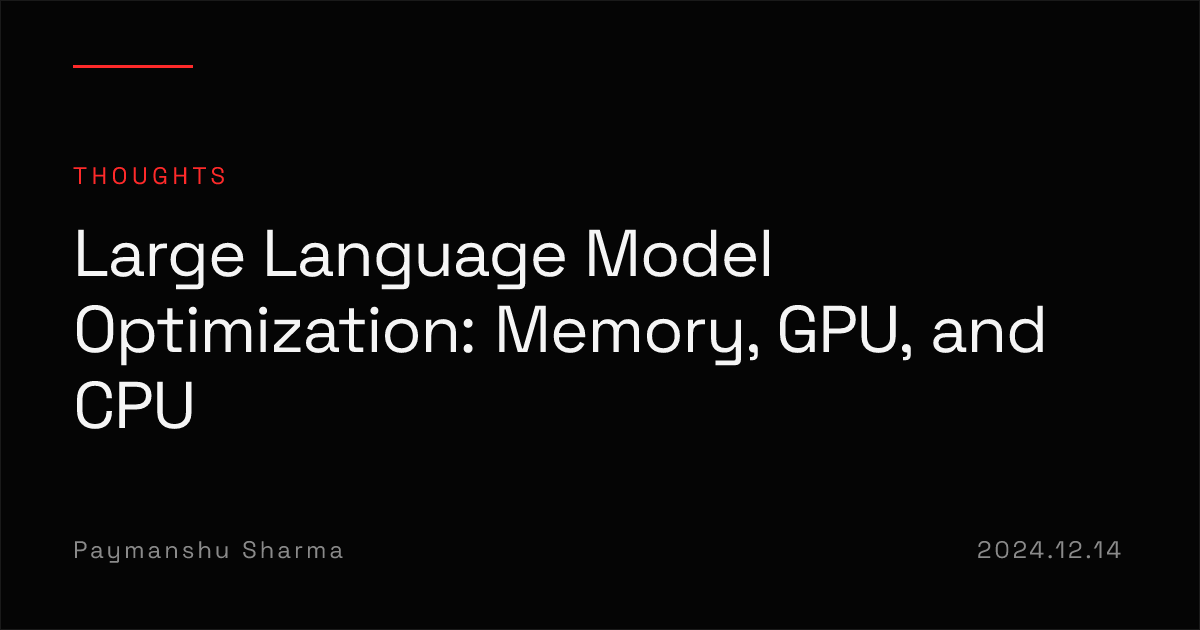
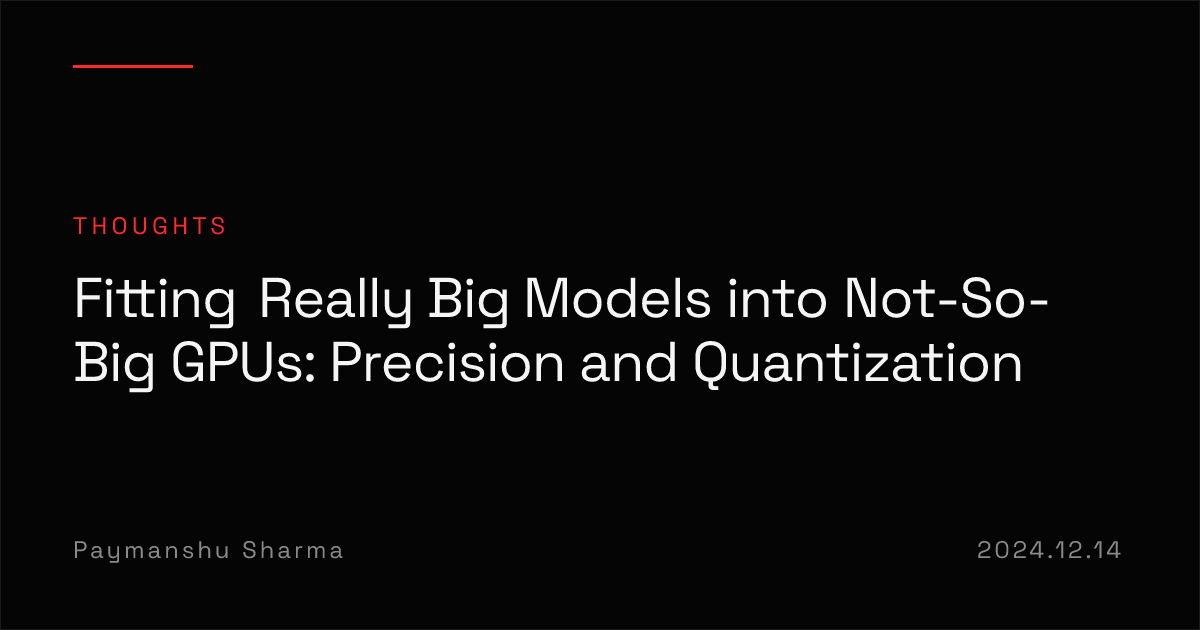
Cut the LLM post to my own sections; add references to both posts (#4)
* Cut the LLM post down to my own sections and credit Microsoft in the Android post.

The LLM optimization post grew out of a team write-up. Only the precision,
quantization and VRAM parts (and the figures) are mine, so the GPU serving and
CPU sections go, along with the generic intro and strategy overview. The
KV-cache sizing math and chart move into a closing section, with the sentences
that followed NVIDIA's inference post rewritten. New title, excerpt, tags and
references to match; the slug stays so existing links keep working.

The Android post now credits Microsoft for the Phi-3 quantization and Galaxy
S21 benchmark results, and fixes the Gemma model size (2B).

The dated-note test now accepts "Researched in 2024" as well as "Written in".

* Add a references list to the Android post and fill gaps in the LLM post's.

---------

Changed region(s): [[0.0617, 0.3317, 0.8942, 0.6937], [0.0617, 0.2714, 0.185, 0.3016]]

diff --git a/content/blog/llm-optimization-memory-gpu-cpu.md b/content/blog/llm-optimization-memory-gpu-cpu.md
@@ -1,51 +1,25 @@
 ---
-title: "Large Language Model Optimization: Memory, GPU, and CPU"
-excerpt: "A practical tour of LLM deployment optimization across three dimensions — precision formats and quantization for memory, batching and KV caching for GPU, and IPEX and llama.cpp for CPU."
+title: "Fitting Really Big Models into Not-So-Big GPUs: Precision and Quantization"
+excerpt: "How much GPU memory a model actually needs and how to cut it down — fp32, fp16 and bf16, what quantization trades away, LLM.int8() and bitsandbytes in practice, and the KV cache that grows on top of the weights."
 date: "2024-12-14"
 tags:
   - llm optimization
   - quantization
   - precision
   - kv cache
+  - vram
   - inference
-  - gpu
 ---
 
-_Written in 2024, and it shows. This predates the now-standard tooling and formats — vLLM's PagedAttention, FP8 and FP4 hardware support, GGUF's takeover from GGML, and the current generation of quantization methods (AWQ, GPTQ variants, MXFP4). The fundamentals below — why precision matters, how quantization trades accuracy for memory, where the KV cache bottleneck comes from — still hold. The specific library recommendations and benchmark numbers do not. Read it as a snapshot._
+_Researched in 2024, and it shows. It predates FP8 and FP4 hardware support and the current generation of quantization methods (AWQ, GPTQ variants, MXFP4). The fundamentals below — why precision matters, how quantization trades accuracy for memory, where the KV cache's memory comes from — still hold. The specific library recommendations and benchmark numbers do not. Read it as a snapshot._
 
 ## Introduction
 
-In today's rapidly evolving digital landscape, natural language processing (NLP) has emerged as a transformative technology, revolutionizing how machines understand and interpret human language. Foundation models serve as the backbone enabling many cutting-edge AI systems to understand and generate human language, which have become indispensable in powering a wide array of applications — from chatbots and sentiment analysis to machine translation and content generation. LLMs are instrumental in enhancing customer engagement, streamlining operations, and fostering innovation across various sectors such as healthcare, finance, insurance, and more.
-
-However, the increasing demand for sophisticated, context-aware language understanding shows the complexities and challenges associated with training and deploying these models. The significant computational resources and the necessity for efficient optimization algorithms underscore the unique challenges organizations face. As LLMs grow in complexity, incorporating multiple layers and components like transformers and attention mechanisms, the task of managing computational costs, resource limitations, potential biases, and energy consumption becomes paramount. Such ever growing complexities spurred a pressing need for optimization strategies that not only improve model accuracy and effectiveness but also ensure scalability, efficiency, and responsible AI development.
-
-This piece explores the multifaceted domain of LLM optimization, presenting state-of-the-art techniques, emerging trends, and best practices to enhance the performance and utility of these models by delving into aspects such as data preprocessing, model architecture choices, transfer learning, and fine-tuning, alongside strategies for model compression and reducing energy consumption.
-
-## Why the Need for LLM Optimization?
-
-The five priority painful challenges in deploying LLMs are:
-
-- **Memory (RAM) Constraints:** LLMs require a substantial amount of RAM to load the model into memory. For deployment on servers or edge devices, ensuring that there is enough RAM to accommodate the model can be a challenge.
-- **Resource (GPU and CPU) utilization:** Large language models require a lot of computation for training and inference. Optimized processing is essential to make the best use of resources, especially when the model must deal with multiple requests at the same time.
-- **Latency and Throughput:** Real-time applications require high performance and low delay. Designing the deployment architecture to cope with many simultaneous requests effectively can be increasingly onerous.
-- **Parameter Redundancy:** Redundant parameters present in pre-trained language models pose challenges for specific deployment scenarios. Fine-tuning or compressing the model to reduce its size without significantly sacrificing performance can be a complex task.
-- **Energy Efficiency:** Deploying large language models on edge devices, where power constraints are prevalent, requires consideration of energy efficiency. Optimizing the model architecture and inference process for low power consumption is important for superlative performance.
-
-## Optimization Strategies
-
-The optimization of LLM deployment encompasses three primary dimensions: memory utilization, CPU efficiency, and GPU acceleration. These dimensions represent critical facets in the efficient deployment of Large Language Models, each demanding meticulous attention to achieve optimal performance and scalability. This section delineates some strategies tailored to optimize LLM deployment across these three dimensions, elucidating nuanced approaches to memory management, CPU utilization, and GPU acceleration.
-
-Optimizing memory usage is a critical aspect of deploying LLMs effectively. State-of-the-art models, which are prominent in natural language understanding and generation, often come with substantial memory requirements which can pose challenges in deployment scenarios. However, with strategic memory optimization techniques, the efficiency and scalability of LLM deployment can be improved.
-
-Optimizing CPU usage is paramount when deploying LLMs to ensure efficient performance and scalability. While LLMs excel in processing vast amounts of textual data, their computational demands can strain CPUs, leading to potential bottlenecks and reduced efficiency. However, with strategic CPU optimization techniques, organizations can unlock the full potential of LLM deployment without overwhelming the hardware infrastructure.
-
-Optimizing GPU utilization is another crucial step to consider when deploying LLMs. They often rely on parallel processing to handle the massive computational demands of natural language processing tasks. GPUs, because of parallel architecture and high processing power, are well-suited for accelerating LLM inference and training. However, to fully leverage the capabilities of GPUs and ensure efficient deployment of LLMs, it's essential to employ optimization techniques tailored to GPU architectures.
-
-The sections below deep dive into key strategies, ranging from parameter quantization to model pruning for memory, and batch processing, mixed-precision computing, and model parallelism for GPU.
-
-## Memory
-
 With bigger, state of the art achieving models being put out at an ever increasingly rapid pace nowadays, it is getting harder for practitioners to work on the cutting edge and spend hands-on time. Besides CPU processing being a bottleneck, and massive GPU access costs, another obstacle that comes in the way of experimenting with larger models is being able to store these models in the available memory at all. Traditionally, model weights have been stored as floats in the 32-bit format, also referred to as single precision. This format is known to be able to learn and manage the most amount of information possible. But despite the format's competence at storing significant amounts of information, the very same advantage presents a challenge as well. Massive information storage is a computational issue and makes it difficult to work with in machines which cannot store such blocks of information at a time.
+
+This piece walks through what that storage actually costs, what lower-precision formats and quantization buy back, what they cost in quality and speed, and the second memory bill — the KV cache — that arrives once the model is serving requests.
+
+## Precision Formats
 
 Just to demonstrate the sizes that are being dealt with here, model size in bytes can be calculated as the number of parameters, multiplied by the precision size of choice in bytes:
 
@@ -114,9 +88,9 @@ These 2 phenomena lead to significant instability in the training process. Rathe
 
 Other examples include Nvidia's TensorFloat 19-bit representation, AMD's fp24, and Pixar's PXR24 formats.
 
-### Understanding Quantization
+## Understanding Quantization
 
-_The treatment of zero-point quantization and LLM.int8() in this section and the next draws heavily on Hugging Face's "A Gentle Introduction to 8-bit Matrix Multiplication" by Younes Belkada and Tim Dettmers [5], which remains the clearest explanation of the mixed-precision decomposition scheme. The framing of the scaling example below follows theirs._
+_The treatment of zero-point quantization and LLM.int8() in this section and the next draws heavily on Hugging Face's "A Gentle Introduction to 8-bit Matrix Multiplication" by Younes Belkada and Tim Dettmers [2], which remains the clearest explanation of the mixed-precision decomposition scheme. The framing of the scaling example below follows theirs._
 
 For going even further with potential memory saving, lower-bit representations than 16-bit cannot be used directly, as these would not be able to store the required amount of information needed to achieve sufficient performance. **Quantization** is one such technique proposed to deal with this roadblock. Rather than dropping more bits, this method relies on rounding digits from float to int representations, paired with some strategy to manage precision loss.
 
@@ -136,7 +110,7 @@ Quantization can be broadly categorized into two primary types based on the stag
 1. **Quantization-Aware Training (QAT)** incorporates weight quantization at training time itself. This leads to improved model performance, but at the same time can be more computationally demanding. Methods like QLoRA work in this manner, accommodating the nuances of quantization.
 2. **Post-Training Quantization (PTQ)** on the other hand performs the quantization on the weights of a model which has already been trained. This is an easier to implement solution which gives us some more flexibility to work with models that we might not have the compute to otherwise support with QAT methods, while allowing for additional memory requirement reductions. (This piece primarily covers PTQ methods.)
 
-### Improved Quantization Techniques
+## Improved Quantization Techniques
 
 A few further improvements have been proposed and put into practice, which are more common methods of carrying out the same concept of quantization but in more efficient ways which aid in preventing excessive performance degradation.
 
@@ -146,7 +120,7 @@ This is also made use of in the **LLM.int8()** method for performing int8 quanti
 
 LLM.int8() promises zero degradation in performance by tackling the effect of outlier features via mixed precision computation. Put simply, this means identifying values which would gain advantage from being continued to be computed at a higher precision, while the remaining significant majority is multiplied in a lower 8-bit precision. The quantized portion can later be dequantized and added to the outliers which have been computed in their original 32/16-bit float values. This also has the additional advantage of only minimal slowdowns compared to complete float16 precision inference mode.
 
-### Implementing Quantization
+## Implementing Quantization
 
 Models downloaded from the HuggingFace Hub are widely used for the convenience due to model usage and pipeline uniformity, along with the several other features for model sharing, downloading, uploading, etc., which the Hub makes available in an open-source fashion. Another significant advantage of this now is the ease of setting up quantization quickly while fine-tuning or for inference. HuggingFace has been powered by their link-up with the bitsandbytes library, along with the availability of several useful features from Accelerate, Optimum, and other similar services from HuggingFace themselves.
 
@@ -154,7 +128,7 @@ bitsandbytes provides a wide array of features allowing for incorporating state 
 
 Accelerate also has another important feature which splits up any given model weights between the CPU and GPU memory, in case the GPU by default is not able to hold the entire model. Setting the `device_map` parameter to `'auto'` while loading any model from pretrained is all it takes to enable Accelerate to look out for cases where this sort of splitting needs to kick in.
 
-### Results and Inferences
+## Results and Inferences
 
 The objective here was to compare models before and after different types of quantization methods had been applied to them, and how this impacts pertinent performance-related factors — primarily, the output performance quality (based on some chosen metric), the size of the model we are actually able to load in and use, any drops or differences in speed observed at inference time, and any other factors that arise during testing.
 
@@ -172,25 +146,17 @@ There do exist measures which can be taken to curb this slowdown, for example, w
 
 **Model Compatibility:** In some cases, it helps to note model-specific recommendations which have been provided keeping in mind the original state of training for a particular model, and how it can be best utilized at a fine-tuning or inference stage with the correct specifications/settings. The Llama2 models, for instance, were originally trained using the bfloat16 precision, as specified by Meta. For inference, float16 is picked. However, training the model in float16 is not a recommended practice and is known to produce NaN values which will be an obstacle to successful training. This specification can be made at load time itself with HuggingFace, with the model weights being cast to the required dtype on load.
 
-## GPU Optimization
+## Beyond the Weights: The KV Cache
 
-In comparison to CPUs, GPUs consist of a large number of weak cores. They are a specialized set of hardware that performs one task extremely well. While CPUs are more generalized towards running other processes on the system, they are more focused towards improving the latency of a task. GPUs, however, focus on increasing the system's throughput.
+Everything above is about the weights. Serving adds a second memory cost on top of them — the key-value (KV) cache.
 
-With the widespread incorporation of LLMs in many tasks, the demand for specialized hardware to host and run them is at an all-time high. Acquiring GPUs for running complex machine learning and deep learning algorithms has been done by large organizations for quite some time now. However, the compute power from GPUs required to run LLM inferencing is a completely different ball game. So how do we address this issue? While GPU manufacturing companies are constantly increasing the compute power and the number of floating-point operations per second, they are also extremely expensive. Constantly upgrading the hardware to keep in line with the compute power required by new algorithms might not always be the best solution as the costs also increase exponentially. This is where the challenge of GPU optimization comes in.
+Decoding is autoregressive: one token per step, and every step attends over all the tokens before it. Without a cache, generating the *n*-th token means recomputing key and value projections for all *n-1* prior tokens — work that was already done at the previous step and whose result has not changed. Caching those projections in GPU memory turns that repeated quadratic work into an append: each step computes K and V for exactly one new token and concatenates them onto what is already stored. The cache is typically maintained per layer, since each layer attends over its own representations.
 
-_The batching and KV-cache material below follows the ground covered in NVIDIA's "Mastering LLM Techniques: Inference Optimization" [10], which is the best single reference on serving-side GPU optimization from this period._
+The trade is memory for compute, and it is worth being precise about how much memory, because this is where the ceiling on how many requests fit on one card comes from.
 
-**1. Batching.** One effective method to enhance GPU utilization and consequently increase throughput is by employing batching. This approach allows multiple requests to utilize the same model, thereby distributing the memory cost of the weights across all of them. By transferring larger batches to the GPU for simultaneous processing, the available computing power can be better harnessed. However, there is a limitation to the extent to which batch sizes can be increased, as it may result in memory overflow.
+GPU memory during inference goes to two places: the weights, which are fixed, and the KV cache, which is not.
 
-The naive implementation — hold a batch, run it, return it, take the next — wastes a great deal of the throughput it was meant to buy. The reason is that generation lengths are not known in advance and are not uniform. A batch finishes when its slowest member finishes, so a batch containing one long generation and seven short ones occupies the GPU for the duration of the long one while seven slots sit idle producing padding. The wider the spread of output lengths, the worse the waste, and for a general-purpose serving endpoint that spread is wide by definition. In-flight batching addresses this by evicting completed sequences and admitting queued ones mid-batch, so that finished slots are refilled rather than idled.
-
-**2. Key-value caching.** A prevalent technique for enhancing the decode phase of an LLM is Key-Value (KV) caching. Decoding is autoregressive: one token per step, and every step attends over all the tokens before it. Without a cache, generating the *n*-th token means recomputing key and value projections for all *n-1* prior tokens — work that was already done at the previous step and whose result has not changed. Caching those projections in GPU memory turns that repeated quadratic work into an append: each step computes K and V for exactly one new token and concatenates them onto what is already stored. The cache is typically maintained per layer, since each layer attends over its own representations.
-
-The trade is memory for compute, and it is worth being precise about how much memory, because this is where the ceiling on batch size actually comes from.
-
-**3. LLM memory requirement.** GPU memory during inference goes to two places: the weights, which are fixed, and the KV cache, which is not.
-
-*Model weights* are the easy half — the calculation from the Memory section applies directly. Llama 2 7B at 16-bit precision is roughly 14 GB, and that figure does not move regardless of how many requests are in flight.
+*Model weights* are the easy half — the calculation from earlier applies directly. Llama 2 7B at 16-bit precision is roughly 14 GB, and that figure does not move regardless of how many requests are in flight.
 
 *The KV cache* is the half that scales, and it scales with traffic. Every token of every sequence in the batch needs its own K and V entries at every layer, so the cost per token is:
 
@@ -239,45 +205,21 @@ Put Llama 2 7B's configuration through this — 32 layers, `d_model` of 4096, fp
   </g>
 </svg>
 <figcaption>At batch 8 the cache alone (16 GB) exceeds the weights (14 GB), and the total overruns a 24 GB card.</figcaption>
-</figure> Efficiently managing the KV cache is a complex task, and because the requirement grows linearly in both batch size and sequence length, it can quickly become unmanageable. This is the real limit on achievable throughput, and it is why long-context inputs are disproportionately expensive to serve.
+</figure>
 
-**4. Scaling up LLMs with model parallelization.** A method for decreasing the memory usage of model weights on individual devices is to distribute the model across multiple GPUs. By dispersing the memory and computational demands, it becomes possible to work with larger models or process greater batches of input data. Model parallelism is essential for training or conducting inference on models that demand more memory than a single device can provide, as well as for ensuring that training durations and inference metrics (such as latency or throughput) are appropriate for specific use cases. There are various approaches to model parallelization, depending on how the model weights are divided.
+`batch_size` and `seq_len` are set by the workload rather than the model: longer contexts and more concurrent requests each grow the cache linearly. Once the weights fit, the cache sets the ceiling on concurrency, and it is why long contexts are expensive to serve. The `bytes_per_element` term is the same lever as before — a cache stored at lower precision shrinks in proportion, just as the weights do.
 
-Data parallelism is worth distinguishing here, because it comes up in the same conversations and solves a different problem. It replicates the whole model on each device and splits the incoming batch between them. That helps when the bottleneck is how much data you can push through, but it does nothing for the case that actually blocks inference — a model too large for one device. Since every replica still needs the full weights, data parallelism is largely a training-time concern and rarely the answer at serving time.
-
-## CPU Optimization
-
-One of the fundamental components influencing the efficacy of LLM inference is the optimization of CPU compute. The efficient utilization of CPU resources plays a pivotal role in accelerating inference tasks, minimizing latency, and enhancing overall system performance. Through careful optimization techniques, it is feasible to perform fast inference of large deep learning models directly on a CPU. These optimization methods allow large neural network architectures to make predictions on a central processing unit in a computationally efficient manner without requiring a dedicated GPU.
-
-**1. IPEX graph optimization.** The Intel® Extension for PyTorch (IPEX) library offers performance optimizations for PyTorch models running on Intel CPUs, especially when using JIT compilation via TorchScript. The mechanism is operator fusion: where the eager-mode graph would launch several small kernels in sequence, IPEX recognises the pattern and emits one. Each launch avoided is one less round-trip through memory for an intermediate tensor, and on CPU — where there is no thousand-way parallelism to hide that latency behind — the saving is proportionally larger than the same fusion would buy on GPU.
-
-Per Intel's documentation [3], the fused patterns include:
-
-> Multi-head-attention fusion, concat Linear, Linear+Add, Linear+Gelu, Add+LayerNorm fusion and etc.
-
-The combination of TorchScript for eager-to-graph compilation and IPEX for CPU-specific graph optimizations allows PyTorch models to achieve significant speedups on Intel hardware.
-
-**2. Indirect Access KV Cache.** The decoder layer in sequence-to-sequence models like neural machine translation uses an attention mechanism to decide which parts of the input sequence are most relevant when generating each output token. Specifically, it computes a scaled dot product between the input tokens' hidden states (the "keys") and the output tokens' hidden states (the "values") to determine the attention weights. To improve computational efficiency, the decoder layer can utilize a key-value cache to store previously computed keys and values for reuse in later decoding steps. However, caching all previous keys and values requires substantial memory, especially when beam search is used to generate multiple candidate output sequences in parallel. Therefore, techniques like truncated key-value caching only store keys and values for the most recent inputs to constrain memory usage. Though truncation discards potentially useful context, it allows faster decoding over long sequences by reducing redundant key-value recalculations.
-
-Memory is a bottleneck in efficient decoding with KV caches, and beam search makes it worse: the storage grows with the number of hypotheses kept alive. The naive implementation compounds the problem. Beams are pruned and re-ranked at every step, so a cache laid out per-beam has to be physically shuffled each time the ranking changes — copying tensors around to keep each beam's history contiguous. That reordering cost is pure overhead, and it recurs at every decoding step.
-
-Intel's Indirect Access KV Cache (IAKV) [3] removes it by decoupling storage from ordering. The cache is allocated once, up front, at a fixed size, and never moves. What changes instead is a small side table recording which slot each beam occupied at each step. Reading a beam's history means walking that table to collect the right slots, rather than maintaining a contiguous copy — an indirection, hence the name. Re-ranking becomes a cheap update to the index; the tensors themselves stay put. The pre-allocation is a secondary benefit, since it removes per-step allocator traffic as well.
-
-**3. C++ compiling.** PyTorch, the popular deep learning framework, now offers a powerful solution for deploying models beyond the confines of Python. Through TorchScript, developers can seamlessly compile their models into an optimized intermediate format, unlocking significant advantages for production environments. The key advantages are platform independence — compiled models shed the Python dependency, enabling deployment across diverse platforms and expanding operational reach — and a performance boost, where C++'s inherent speed translates directly to compiled models, resulting in faster inference and streamlined deployment.
-
-llama.cpp and whisper.cpp stand as tangible examples of this technology's effectiveness. llama.cpp requires models to be converted into one of two compatible formats before they can be used for efficient inference — GGML, named for its author Georgi Gerganov, or its successor GGUF, which replaced it in 2023 to fix GGML's poor extensibility and lack of stable metadata. Both are custom formats optimized specifically for llama.cpp. Users with models in other formats can convert them to GGML or GGUF using the conversion scripts included with llama.cpp. This allows a range of models to leverage the efficiency of llama.cpp while avoiding the need to retrain or rewrite them purely for compatibility.
-
-A key benefit offered by llama.cpp is the ability to run fine-tuned large language models locally on personal devices, eliminating the need for cloud services or high-performance hardware. This local deployment enables diverse applications — text generation, QA systems, summarization tools, chatbots, data analysis — while keeping data on-device and avoiding cloud costs and dependencies. Overall, llama.cpp grants self-contained and private local access to state-of-the-art natural language processing on common hardware, opening the door for innovative implementations across many vertical domains. The OpenAI-inspired interface further eases integration with existing pipelines and clients.
+Batching requests and managing this cache well is a serving problem in its own right, and out of scope here; NVIDIA's "Mastering LLM Techniques: Inference Optimization" [7] is a good place to start.
 
 ## References
 
 1. [bfloat16 floating-point format — Wikipedia](https://en.wikipedia.org/wiki/Bfloat16_floating-point_format)
-2. [Accelerate PyTorch with Intel® Extension for PyTorch](https://www.intel.com/content/www/us/en/developer/articles/technical/accelerate-with-intel-extension-for-pytorch.html)
-3. [Large Language Models (LLM) Optimization Overview — Intel® Extension for PyTorch](https://intel.github.io/intel-extension-for-pytorch/cpu/latest/tutorials/llm.html)
-4. [ggerganov/llama.cpp: LLM inference in C/C++](https://github.com/ggerganov/llama.cpp)
-5. Younes Belkada and Tim Dettmers, [A Gentle Introduction to 8-bit Matrix Multiplication for transformers at scale using Hugging Face Transformers, Accelerate and bitsandbytes](https://huggingface.co/blog/hf-bitsandbytes-integration) — Hugging Face
-6. [Making LLMs even more accessible with bitsandbytes, 4-bit quantization and QLoRA](https://huggingface.co/blog/4bit-transformers-bitsandbytes) — Hugging Face
-7. [Quantization — Hugging Face Transformers documentation](https://huggingface.co/docs/transformers/main/en/quantization)
-8. Tim Dettmers et al., [LLM.int8(): 8-bit Matrix Multiplication for Transformers at Scale](https://arxiv.org/abs/2208.07339)
-9. Tim Dettmers et al., [QLoRA: Efficient Finetuning of Quantized LLMs](https://arxiv.org/abs/2305.14314)
-10. [Mastering LLM Techniques: Inference Optimization](https://developer.nvidia.com/blog/mastering-llm-techniques-inference-optimization/) — NVIDIA Developer Blog
+2. Younes Belkada and Tim Dettmers, [A Gentle Introduction to 8-bit Matrix Multiplication for transformers at scale using Hugging Face Transformers, Accelerate and bitsandbytes](https://huggingface.co/blog/hf-bitsandbytes-integration) — Hugging Face
+3. [Making LLMs even more accessible with bitsandbytes, 4-bit quantization and QLoRA](https://huggingface.co/blog/4bit-transformers-bitsandbytes) — Hugging Face
+4. [Quantization — Hugging Face Transformers documentation](https://huggingface.co/docs/transformers/main/en/quantization)
+5. Tim Dettmers et al., [LLM.int8(): 8-bit Matrix Multiplication for Transformers at Scale](https://arxiv.org/abs/2208.07339)
+6. Tim Dettmers et al., [QLoRA: Efficient Finetuning of Quantized LLMs](https://arxiv.org/abs/2305.14314)
+7. [Mastering LLM Techniques: Inference Optimization](https://developer.nvidia.com/blog/mastering-llm-techniques-inference-optimization/) — NVIDIA Developer Blog
+8. [Half-precision floating-point format — Wikipedia](https://en.wikipedia.org/wiki/Half-precision_floating-point_format)
+9. Hugo Touvron et al., [Llama 2: Open Foundation and Fine-Tuned Chat Models](https://arxiv.org/abs/2307.09288) — Meta
+10. [turboderp/exllamav2: a fast inference library for running LLMs locally](https://github.com/turboderp/exllamav2)

diff --git a/content/blog/on-device-llms-on-android.md b/content/blog/on-device-llms-on-android.md
@@ -49,7 +49,7 @@ Microsoft's Phi-3-mini and Google's Gemma/Gemma 2 are popular open-source models
 
 Phi-3-Mini-4K-Instruct, the conversation-oriented version, with 3.8 billion parameters trained on 3.3 trillion tokens, contends with models up to 13 billion parameters. It demonstrates robust results in: language understanding, mathematical reasoning, code generation, long context handling, and logical reasoning. The model achieves a 70.9% score on the MMLU benchmark and excels in tasks such as the ARC Challenge and BoolQ, indicating strong reasoning and comprehension capabilities.
 
-Google's Gemma and Gemma 2, built on the same technology as proprietary Gemini models, offer three powerful and efficient models with 2, 9, and 27 billion parameter sizes. The Gemma models incorporate built-in safety advancements as well, and the Gemma 2.5B model is of particular interest due to in-built optimization for fast inference across diverse hardware.
+Google's Gemma and Gemma 2, built on the same technology as the proprietary Gemini models, span 2 to 27 billion parameters (Gemma 2 ships in 2, 9, and 27 billion sizes). The Gemma models incorporate built-in safety advancements as well, and the Gemma 2B model is of particular interest due to in-built optimization for fast inference across diverse hardware.
 
 Gemini Nano, a proprietary model, presents an alternative in the on-device model segment, offering API access for on-device setup without internet connectivity. Gemini Nano also provides functionalities beyond standard text generation, including: image understanding, speech transcription and text summarization. However, some multimodality-related options are available only on a restricted set of devices. Limited API access for developers has constrained experimentation with Gemini Nano models in the current project.
 
@@ -72,10 +72,10 @@ With the foundation of ONNX Runtime in place, we applied several optimization te
 
 ### Optimization Techniques
 
-The successful deployment of on-device AI requires careful optimization to balance performance with resource constraints. Various optimization techniques, from model compression to inference acceleration, allow complex AI models to run effectively on resource-constrained hardware such as mobile devices. The following key optimization strategies are implemented to achieve this balance:
+The successful deployment of on-device AI requires careful optimization to balance performance with resource constraints. Various optimization techniques, from model compression to inference acceleration, allow complex AI models to run effectively on resource-constrained hardware such as mobile devices. The following key optimization strategies are implemented to achieve this balance, backed by Microsoft's published results for Phi-3-mini:
 
-- **Quantization Techniques**: The implementation of 4-bit block quantization across mobile and web models achieved significant size reduction, resulting in models more than 2.5 times smaller than the original PyTorch versions, while maintaining high accuracy levels.
-- **Runtime Libraries**: Performance benchmarks comparing ONNX Runtime Mobile and llama.cpp revealed distinct optimization approaches for efficient model execution. Testing on a Samsung Galaxy S21 demonstrated ONNX Runtime Mobile's superior performance in scenarios involving short prompts and token generation, with comparable performance levels in other use cases.
+- **Quantization Techniques**: 4-bit block quantization. Microsoft's ONNX Runtime team reports that its 4-bit block-quantized Phi-3-mini builds for mobile and web are more than 2.5 times smaller than the original PyTorch version while maintaining high accuracy ([Microsoft, "Enjoy the power of Phi-3 with ONNX Runtime on your device"](https://huggingface.co/blog/Emma-N/enjoy-the-power-of-phi-3-with-onnx-runtime)).
+- **Runtime Libraries**: ONNX Runtime Mobile over llama.cpp. In the same Microsoft benchmarks on a Samsung Galaxy S21, ONNX Runtime Mobile beat llama.cpp with short prompts and few tokens to generate, and was comparable in other cases.
 
 ## Demo 1: A Portable Document Intelligence App
 
@@ -118,3 +118,20 @@ This approach maximizes functionality by improving customization options without
 ## Conclusion
 
 The two demonstrations showcase the remarkable performance and versatility achievable with on-device LLMs. By repurposing existing LLM solutions for resource-constrained devices, these applications expand the possibilities for on-device intelligence. The improved usability, convenience, and privacy offered by this setup cater to an expanded audience, paving the way for broader adoption of on-device AI across various sectors.
+
+## References
+
+1. Marah Abdin et al., [Phi-3 Technical Report: A Highly Capable Language Model Locally on Your Phone](https://arxiv.org/abs/2404.14219) — Microsoft
+2. [microsoft/Phi-3-mini-4k-instruct model card](https://huggingface.co/microsoft/Phi-3-mini-4k-instruct) — Hugging Face
+3. [Enjoy the power of Phi-3 with ONNX Runtime on your device](https://huggingface.co/blog/Emma-N/enjoy-the-power-of-phi-3-with-onnx-runtime) — Microsoft ONNX Runtime team
+4. Gemma Team, [Gemma 2: Improving Open Language Models at a Practical Size](https://arxiv.org/abs/2408.00118) — Google DeepMind
+5. [Gemma models overview](https://ai.google.dev/gemma/docs) — Google AI for Developers
+6. [Gemini Nano](https://developer.android.com/ai/gemini-nano) — Android Developers
+7. [Open LLM Leaderboard](https://huggingface.co/spaces/open-llm-leaderboard/open_llm_leaderboard) — Hugging Face
+8. [ONNX Runtime](https://onnxruntime.ai/docs/) — documentation
+9. [ggerganov/llama.cpp: LLM inference in C/C++](https://github.com/ggerganov/llama.cpp)
+10. [Text recognition v2](https://developers.google.com/ml-kit/vision/text-recognition/v2) — Google ML Kit
+11. Daniel Cer et al., [Universal Sentence Encoder](https://arxiv.org/abs/1803.11175)
+12. [ObjectBox on-device vector database](https://objectbox.io/)
+13. [LLM Inference guide for Android](https://ai.google.dev/edge/mediapipe/solutions/genai/llm_inference/android) — MediaPipe
+14. Edward J. Hu et al., [LoRA: Low-Rank Adaptation of Large Language Models](https://arxiv.org/abs/2106.09685)
